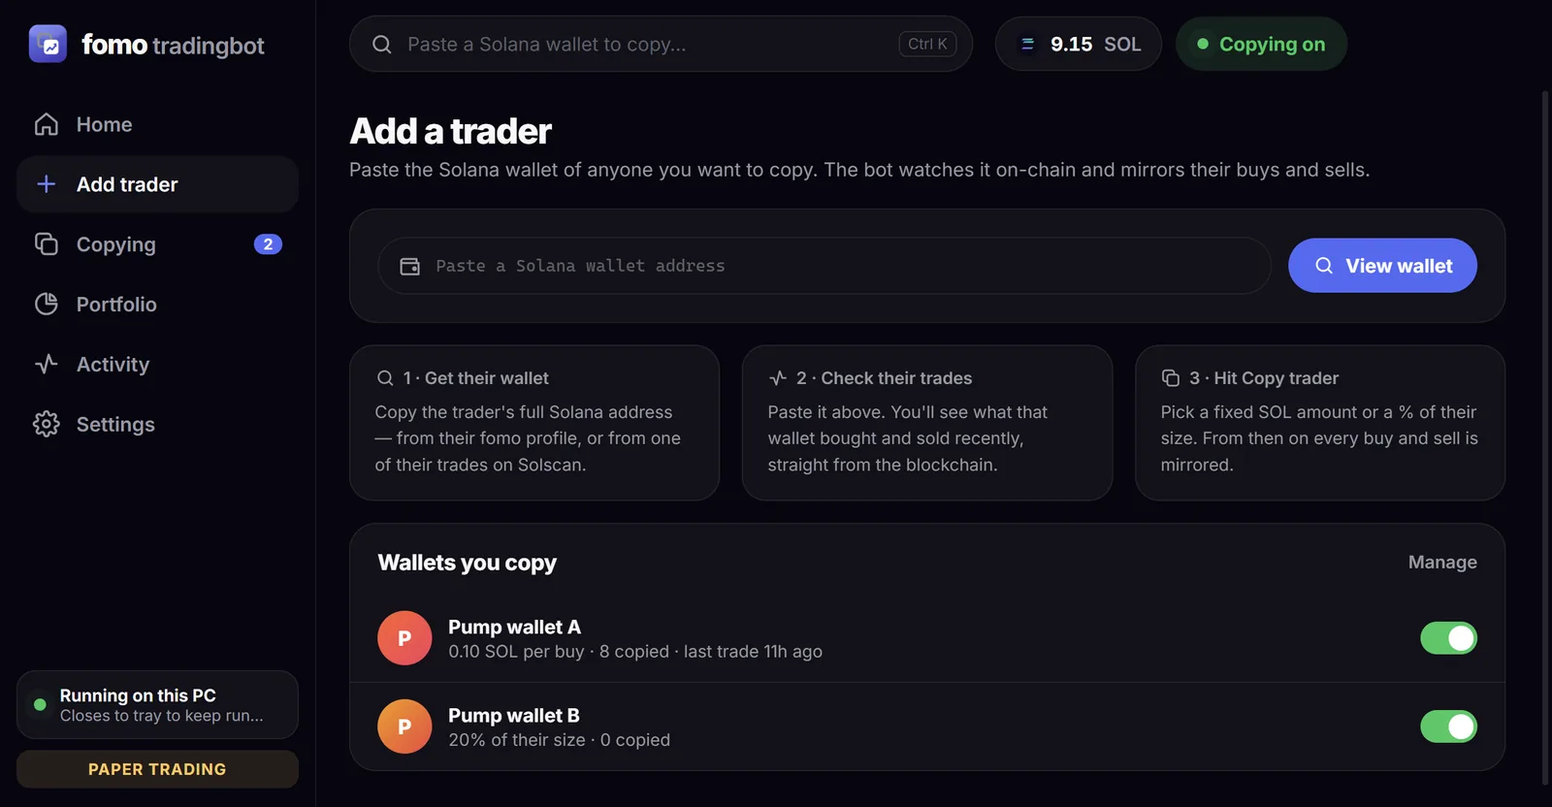
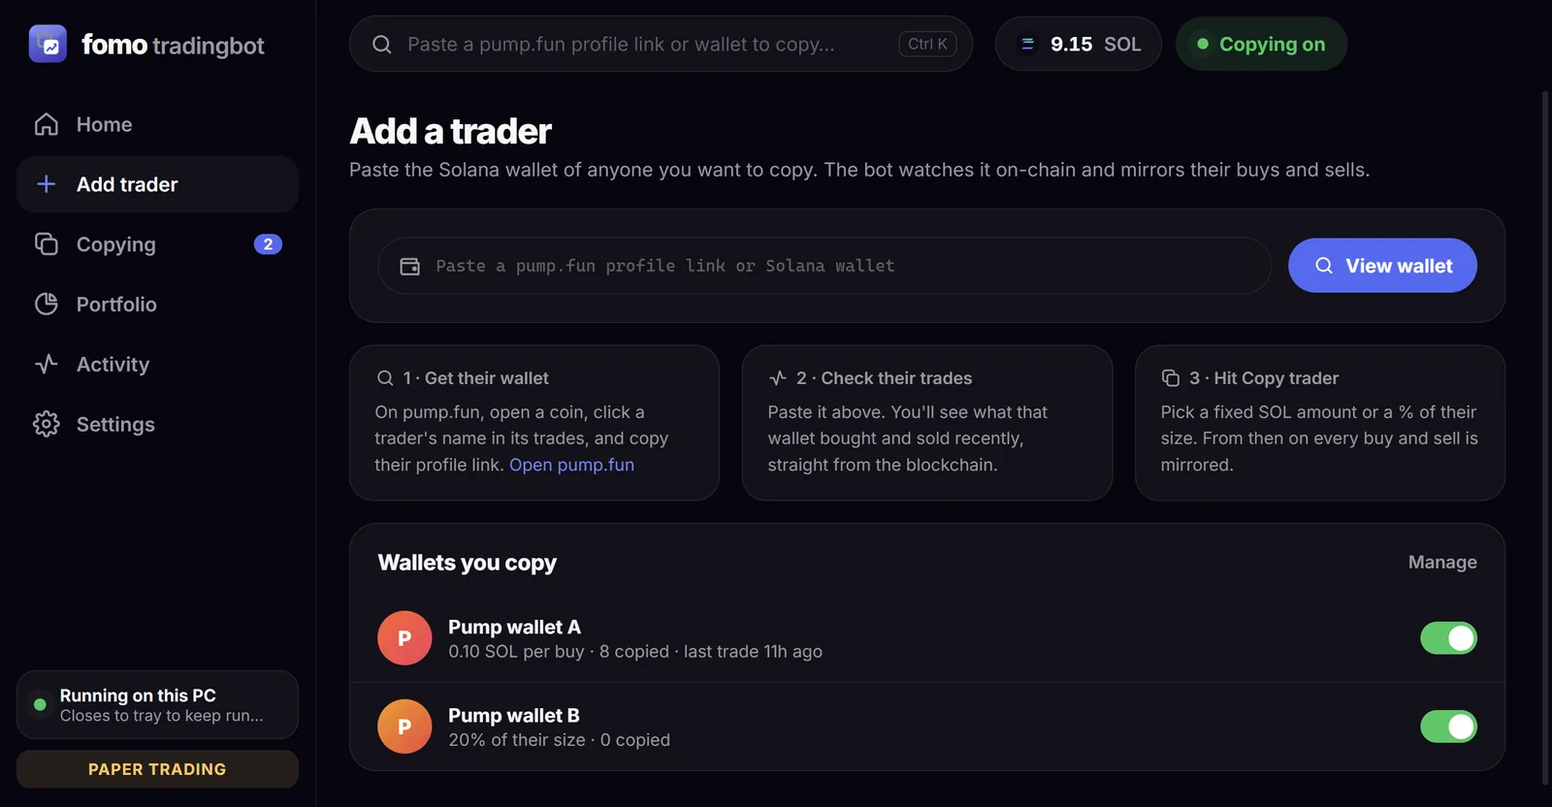
v1.3.0: pump.fun first — paste pump.fun profile links, pump.fun links throughout

Changed region(s): [[0.25, 0.5, 0.4375, 0.5938], [0.3438, 0.3125, 0.5625, 0.3438], [0.3125, 0.0312, 0.5312, 0.0625]]

diff --git a/desktop/renderer/app.js b/desktop/renderer/app.js
@@ -8,6 +8,16 @@ const esc = (v) => String(v ?? '').replace(/[&<>"']/g, (c) => ({ '&': '&amp;', '
 const safeUrl = (u) => (typeof u === 'string' && /^https:\/\//.test(u) ? u : null);
 const short = (a, n = 4) => (a ? `${a.slice(0, n)}…${a.slice(-n)}` : '');
 const isSolAddr = (s) => /^[1-9A-HJ-NP-Za-km-z]{32,44}$/.test(String(s || '').trim());
+// Accepts a plain wallet or a profile/account link (pump.fun, Solscan, GMGN, Birdeye…). Coin links are rejected.
+function parseTraderInput(raw) {
+  const s = String(raw || '').trim();
+  if (isSolAddr(s)) return { address: s };
+  if (/pump\.fun\/(coin|advanced\/coin)\//i.test(s)) return { error: "That's a coin link, not a trader. On the coin page, click a trader's name in the trades list and copy their profile link instead." };
+  const m = s.match(/\/(?:profile|account|address|wallet|portfolio|user)\/([1-9A-HJ-NP-Za-km-z]{32,44})/i) || s.match(/[?&](?:address|wallet)=([1-9A-HJ-NP-Za-km-z]{32,44})/i);
+  if (m) return { address: m[1] };
+  return { error: "Couldn't find a wallet in that. Paste a pump.fun profile link (pump.fun/profile/…) or a Solana wallet address." };
+}
+const tokenUrl = (mint) => (/pump$/.test(mint) ? `https://pump.fun/coin/${mint}` : `https://dexscreener.com/solana/${mint}`);
 const sleep = (ms) => new Promise((r) => setTimeout(r, ms));
 
 function fmtSol(n, d) {
@@ -315,7 +325,7 @@ VIEWS.home = () => {
       <div class="card pad0">
         <div class="card-h" style="padding:18px 20px 0"><h3>Traders you copy</h3><a class="link" data-go="copying">Manage</a></div>
         ${active.length || S.targets.length ? `<div class="list" style="margin-top:6px">${S.targets.slice(0, 6).map(targetRow).join('')}</div>` : `
-          <div class="empty"><div class="ico">${icon('copy')}</div><h4>You're not copying anyone yet</h4><p>Paste a trader's Solana wallet and hit Copy. Every buy and sell they make gets mirrored.</p><button class="btn primary" data-go="discover">${icon('plus')}Add a trader</button></div>`}
+          <div class="empty"><div class="ico">${icon('copy')}</div><h4>You're not copying anyone yet</h4><p>Paste a trader's pump.fun profile link or Solana wallet and hit Copy. Every buy and sell they make gets mirrored.</p><button class="btn primary" data-go="discover">${icon('plus')}Add a trader</button></div>`}
       </div>
       <div class="card pad0">
         <div class="card-h" style="padding:18px 20px 0"><h3>Top positions</h3><a class="link" data-go="portfolio">View all</a></div>
@@ -407,14 +417,14 @@ VIEWS.discover = () => {
     <div class="row">
       <div class="search-wrap grow" style="max-width:none">
         <span class="search-ico">${icon('wallet')}</span>
-        <input id="discQ" class="mono" placeholder="Paste a Solana wallet address" value="${esc(d.q)}" autocomplete="off" spellcheck="false">
+        <input id="discQ" class="mono" placeholder="Paste a pump.fun profile link or Solana wallet" value="${esc(d.q)}" autocomplete="off" spellcheck="false">
       </div>
       <button class="btn primary" id="discGo">${icon('search')}View wallet</button>
     </div>
     ${d.error ? `<div class="note warn" style="margin-top:14px">${icon('warn')}<div>${esc(d.error)}</div></div>` : ''}
   </div>
   <div class="grid g3" style="margin-top:16px">
-    <div class="stat"><div class="k">${icon('search')}1 · Get their wallet</div><div class="small muted" style="margin-top:8px;line-height:1.55">Copy the trader's full Solana address — from their fomo profile, or from one of their trades on Solscan.</div></div>
+    <div class="stat"><div class="k">${icon('search')}1 · Get their wallet</div><div class="small muted" style="margin-top:8px;line-height:1.55">On pump.fun, open a coin, click a trader's name in its trades, and copy their profile link. <a data-open="https://pump.fun">Open pump.fun</a></div></div>
     <div class="stat"><div class="k">${icon('activity')}2 · Check their trades</div><div class="small muted" style="margin-top:8px;line-height:1.55">Paste it above. You'll see what that wallet bought and sold recently, straight from the blockchain.</div></div>
     <div class="stat"><div class="k">${icon('copy')}3 · Hit Copy trader</div><div class="small muted" style="margin-top:8px;line-height:1.55">Pick a fixed SOL amount or a % of their size. From then on every buy and sell is mirrored.</div></div>
   </div>
@@ -425,15 +435,16 @@ function runSearch(q) {
   const d = S.discover;
   d.q = String(q || '').trim();
   if (!d.q) return;
-  if (isSolAddr(d.q)) { d.error = null; go('profile', { ref: 'wallet:' + d.q }); return; }
-  d.error = 'That doesn\'t look like a Solana wallet address. It should be 32–44 letters and numbers, like 7xKX…9fGh.';
+  const r = parseTraderInput(d.q);
+  if (r.address) { d.error = null; go('profile', { ref: 'wallet:' + r.address }); return; }
+  d.error = r.error;
   if (S.route === 'discover') render(); else go('discover');
 }
 
 VIEW_BIND.discover = (root) => {
   const q = $('#discQ', root);
   q.addEventListener('keydown', (e) => { if (e.key === 'Enter') runSearch(q.value); });
-  q.addEventListener('paste', () => setTimeout(() => { if (isSolAddr(q.value)) runSearch(q.value); }, 0));
+  q.addEventListener('paste', () => setTimeout(() => { if (parseTraderInput(q.value).address) runSearch(q.value); }, 0));
   $('#discGo', root).onclick = () => runSearch(q.value);
   bindTargetToggles(root);
 };
@@ -455,6 +466,7 @@ VIEWS.profile = () => {
         ${avatar(u.avatar, u.name, 'lg')}
         <div class="grow"></div>
         <div class="addr-chip">${SOL_ICON.replace('class="sol"', 'style="width:15px;height:15px"')}<span class="mono">${short(u.address, 5)}</span><button data-copytext="${esc(u.address)}" title="Copy address">${icon('clip')}</button><button data-open="https://solscan.io/account/${esc(u.address)}" title="View on Solscan">${icon('ext')}</button></div>
+        <button class="btn ghost" data-open="https://pump.fun/profile/${esc(u.address)}">${icon('ext')}pump.fun profile</button>
         ${copying
           ? `<button class="btn ghost" id="editCopy">${icon('gear')}Copy settings</button><button class="btn ${copying.enabled ? 'green' : 'ghost'}" id="toggleCopy">${copying.enabled ? icon('check') + 'Copying' : icon('play') + 'Resume'}</button>`
           : `<button class="btn primary lg" id="startCopy">${icon('copy')}Copy trader</button>`}
@@ -472,11 +484,15 @@ VIEWS.profile = () => {
 };
 
 function profileTrades(p) {
-  if (!p.swaps) return `<div class="loading"><span class="spinner"></span>Reading recent trades on-chain…</div>`;
+  if (!p.swaps) {
+    const publicRpc = /api\.mainnet-beta\.solana\.com/.test(S.settings?.rpcUrl || 'api.mainnet-beta.solana.com');
+    return `<div class="loading" style="flex-direction:column"><div class="row"><span class="spinner"></span>Reading recent trades on-chain…</div>
+      ${publicRpc ? `<div class="small faint" style="max-width:460px;text-align:center;line-height:1.5">This can take up to a minute on the free Solana connection. A free Helius RPC URL (Settings → Execution) makes it — and copying — much faster.</div>` : ''}</div>`;
+  }
   if (!p.swaps.length) return `<div class="empty"><p>No recent token trades found for this wallet. Double-check the address, or open it on Solscan.</p></div>`;
   return `<table class="t"><thead><tr><th>Token</th><th>Side</th><th class="r">Size</th><th class="r">When</th><th></th></tr></thead><tbody>
   ${p.swaps.slice(0, 60).map((s) => `<tr>
-    <td><div class="row">${tokImg(s.icon, s.symbol, 'sm')}<div><div style="font-weight:700">${esc(s.symbol)}</div><div class="small faint ellipsis" style="max-width:220px">${esc(s.name || '')}</div></div></div></td>
+    <td><div class="row" style="cursor:pointer" data-open="${esc(tokenUrl(s.mint))}" title="Open coin">${tokImg(s.icon, s.symbol, 'sm')}<div><div style="font-weight:700">${esc(s.symbol)}</div><div class="small faint ellipsis" style="max-width:220px">${esc(s.name || '')}</div></div></div></td>
     <td><span class="badge ${s.side}">${s.side.toUpperCase()}</span></td>
     <td class="r num">${s.sol ? fmtSol(s.sol) + ' SOL' : s.usd ? fmtUsd(s.usd) : '—'}<div class="small faint">${s.tokenAmount ? fmtAmt(s.tokenAmount) : ''}</div></td>
     <td class="r muted">${s.ts ? agoText(s.ts) : ''}</td>
@@ -491,7 +507,7 @@ function loadProfile(ref) {
   const data = { user: { name: t?.name || short(address, 5), avatar: t?.avatar, address }, swaps: null };
   profileCache.set(ref, data);
   if (S.route === 'profile' && S.params.ref === ref) render();
-  GET(`/api/wallet-activity/${address}?limit=15`).catch(() => []).then((swaps) => {
+  GET(`/api/wallet-activity/${address}?limit=10`).catch(() => []).then((swaps) => {
     data.swaps = swaps;
     if (S.route === 'profile' && S.params.ref === ref) render();
   });
@@ -517,7 +533,7 @@ function openCopyModal(u, existing) {
   modal(`
     <div class="row">${avatar(u.avatar, u.name, 'sm')}<div><h3>${existing ? 'Copy settings' : 'Copy ' + esc(u.name)}</h3><div class="small muted">${u.handle ? '@' + esc(u.handle) + ' · ' : ''}<span class="mono">${short(u.address, 5)}</span></div></div><button class="icon-btn x" data-close>${icon('x')}</button></div>
     <div class="body">
-      <div class="field"><label>Name (so you recognise them)</label><input class="input" id="cpName" value="${esc(existing ? u.name : '')}" placeholder="e.g. their fomo handle"></div>
+      <div class="field"><label>Name (so you recognise them)</label><input class="input" id="cpName" value="${esc(existing ? u.name : '')}" placeholder="e.g. their pump.fun name"></div>
       <div class="field"><span class="lbl">How much to buy when they buy</span>
         <div class="seg accent" id="szSeg"><button data-sz="fixed" class="${sizing === 'fixed' ? 'on' : ''}">Fixed amount</button><button data-sz="ratio" class="${sizing === 'ratio' ? 'on' : ''}">% of their size</button></div>
       </div>
@@ -579,7 +595,7 @@ VIEWS.copying = () => {
     <button class="btn primary" data-go="discover">${icon('plus')}Add a trader</button>
   </div>
   <div class="card pad0">
-    ${!list.length ? `<div class="empty"><div class="ico">${icon('copy')}</div><h4>No traders yet</h4><p>Paste a trader's Solana wallet to start copying.</p><button class="btn primary" data-go="discover">${icon('plus')}Add a trader</button></div>` : `
+    ${!list.length ? `<div class="empty"><div class="ico">${icon('copy')}</div><h4>No traders yet</h4><p>Paste a trader's pump.fun profile link or Solana wallet to start copying.</p><button class="btn primary" data-go="discover">${icon('plus')}Add a trader</button></div>` : `
     <table class="t"><thead><tr><th>Trader</th><th>Size</th><th>Copies</th><th class="r">Copied</th><th class="r">Skipped</th><th class="r">Last trade</th><th class="r">Status</th><th></th></tr></thead><tbody>
     ${list.map((t) => `<tr>
       <td><div class="row click" style="cursor:pointer" data-profile="${esc('wallet:' + t.address)}">${avatar(t.avatar, t.name, 'sm')}<div><div style="font-weight:700">${esc(t.name)}</div><div class="small muted">${t.handle ? '@' + esc(t.handle) + ' · ' : ''}<span class="mono">${short(t.address)}</span></div></div></div></td>
@@ -626,7 +642,7 @@ VIEWS.portfolio = () => {
     ${!ps.length ? `<div class="empty"><div class="ico">${icon('pie')}</div><h4>No open positions</h4><p>When a trader you copy buys, the position appears here with live P&L.</p></div>` : `
     <table class="t"><thead><tr><th>Token</th><th class="r">Amount</th><th class="r">Value</th><th class="r">Cost</th><th class="r">P&L</th><th>From</th><th class="r">Sell</th></tr></thead><tbody>
     ${ps.map((p) => `<tr>
-      <td><div class="row">${tokImg(p.icon, p.symbol)}<div><div style="font-weight:700">${esc(p.symbol)}</div><div class="small faint ellipsis" style="max-width:180px">${esc(p.name || '')}</div></div><button class="icon-btn" data-open="https://dexscreener.com/solana/${esc(p.mint)}" title="Chart">${icon('ext')}</button></div></td>
+      <td><div class="row">${tokImg(p.icon, p.symbol)}<div><div style="font-weight:700">${esc(p.symbol)}</div><div class="small faint ellipsis" style="max-width:180px">${esc(p.name || '')}</div></div><button class="icon-btn" data-open="${esc(tokenUrl(p.mint))}" title="Chart">${icon('ext')}</button></div></td>
       <td class="r num">${fmtAmt(p.amount)}</td>
       <td class="r num"><b>${fmtSol(p.valueSol)} SOL</b><div class="small faint">${fmtUsd(p.valueUsd)}</div></td>
       <td class="r num muted">${fmtSol(p.costSol)} SOL</td>
@@ -788,7 +804,7 @@ VIEWS.settings = () => {
       <div class="card">
         <div class="card-h">${icon('info')}<h3>App</h3><span class="muted small" style="margin-left:auto">v${esc(S.info.version || '')}</span></div>
         <div class="toggle-row"><div class="grow"><div class="t">Keep running in the tray</div><div class="d">Closing the window keeps the local engine copying</div></div><label class="switch"><input type="checkbox" id="trayToggle" ${S.info.closeToTray ? 'checked' : ''}><span></span></label></div>
-        <div class="small faint" style="margin-top:10px;line-height:1.5">Unofficial tool, not affiliated with Fomo Labs. Copy trading is risky — memecoins can go to zero in minutes. Nothing here is financial advice.</div>
+        <div class="small faint" style="margin-top:10px;line-height:1.5">Unofficial tool, not affiliated with Fomo Labs or pump.fun. Copy trading is risky — memecoins can go to zero in minutes. Nothing here is financial advice.</div>
       </div>
     </div>
   </div>`;

diff --git a/web/index.html b/web/index.html
@@ -3,10 +3,10 @@
 <head>
   <meta charset="utf-8">
   <meta name="viewport" content="width=device-width, initial-scale=1">
-  <title>Fomo Tradingbot — copy trade fomo traders on autopilot</title>
-  <meta name="description" content="Search any trader on fomo and mirror their Solana buys and sells within seconds. Windows desktop app plus a 24/7 server for a spare PC. Paper mode, risk limits, keys stay on your machine.">
+  <title>Fomo Tradingbot — copy trade pump.fun traders on autopilot</title>
+  <meta name="description" content="Paste any pump.fun trader and mirror their Solana buys and sells within seconds. Windows desktop app plus a 24/7 server for a spare PC. Paper mode, risk limits, keys stay on your machine.">
   <meta property="og:title" content="Fomo Tradingbot">
-  <meta property="og:description" content="Copy trade fomo traders on autopilot. Desktop app + 24/7 server.">
+  <meta property="og:description" content="Copy trade pump.fun traders on autopilot. Desktop app + 24/7 server.">
   <meta property="og:image" content="/img/home.webp">
   <meta name="theme-color" content="#060510">
   <link rel="icon" href="/favicon.png">
@@ -35,8 +35,8 @@
       <div class="glow"></div>
       <div class="wrap hero-in">
         <div class="pill"><span class="dot"></span>Windows · Solana · v1.0</div>
-        <h1>Copy the best traders<br>on <span class="grad">fomo</span>. Automatically.</h1>
-        <p class="lead">Paste a trader&#39;s Solana wallet, hit <b>Copy</b>. Every buy and sell they make is mirrored into your wallet within seconds — with your sizing and your limits.</p>
+        <h1>Copy the best traders<br>on <span class="grad">pump.fun</span>. Automatically.</h1>
+        <p class="lead">Paste a trader&#39;s pump.fun profile link, hit <b>Copy</b>. Every buy and sell they make is mirrored into your wallet within seconds — with your sizing and your limits.</p>
         <div class="cta" id="download">
           <a class="btn white lg" href="https://github.com/rimidalvsulrod/fomo-tradingbot/releases/latest/download/FomoTradingbot-Setup.exe">
             <svg viewBox="0 0 24 24"><path fill="currentColor" d="M3 5.5 10.5 4.4v7.1H3zm8.5-1.2L21 3v8.5h-9.5zM3 12.5h7.5v7.1L3 18.5zm8.5 0H21V21l-9.5-1.3z"/></svg>
@@ -63,7 +63,7 @@
     <section id="features" class="wrap sec">
       <div class="sec-h"><span class="eyebrow">Features</span><h2>Everything you need to follow the legends</h2></div>
       <div class="grid3">
-        <article class="feat"><div class="ic">👛</div><h3>Copy any wallet</h3><p>Paste the Solana address of a trader you like — from fomo or anywhere else. See their recent trades first, then copy. No accounts or logins needed.</p></article>
+        <article class="feat"><div class="ic">👛</div><h3>Copy any pump.fun trader</h3><p>Paste their pump.fun profile link (or any Solana wallet, Solscan or GMGN link). See their recent trades first, then copy. No accounts or logins needed.</p></article>
         <article class="feat"><div class="ic">⚡</div><h3>Mirror buys &amp; sells</h3><p>The engine watches each trader's Solana wallet live. When they buy, you buy. When they sell 40% of a bag, you sell 40% of yours.</p></article>
         <article class="feat"><div class="ic">🧪</div><h3>Paper mode first</h3><p>Every new install simulates trades with real Jupiter quotes. Watch a trader's real performance before you put a single SOL on the line.</p></article>
         <article class="feat"><div class="ic">🛡</div><h3>Risk limits</h3><p>Fixed SOL or % of their size, max per trade, daily spend cap, SOL reserve, max positions, auto take-profit and stop-loss.</p></article>
@@ -75,7 +75,7 @@
     <section id="how" class="wrap sec">
       <div class="sec-h"><span class="eyebrow">How it works</span><h2>Three steps to autopilot</h2></div>
       <div class="steps">
-        <div class="step"><span class="n">1</span><h3>Paste their wallet</h3><p>Grab a trader&#39;s Solana address and paste it in. You&#39;ll see what they bought and sold recently.</p><img src="/img/discover.webp" alt="Add a trader screen" loading="lazy"></div>
+        <div class="step"><span class="n">1</span><h3>Paste their profile</h3><p>On pump.fun, click a trader in any coin&#39;s trades and copy their profile link. Paste it in to see what they bought and sold recently.</p><img src="/img/discover.webp" alt="Add a trader screen" loading="lazy"></div>
         <div class="step"><span class="n">2</span><h3>Hit Copy</h3><p>Choose a fixed SOL amount or a % of their size, and whether to copy buys, sells or both.</p><img src="/img/copying.webp" alt="Copying screen with trader settings" loading="lazy"></div>
         <div class="step"><span class="n">3</span><h3>Watch it trade</h3><p>Positions, live P&amp;L, and a full log of every signal — copied, skipped, or failed and why.</p><img src="/img/portfolio.webp" alt="Portfolio with live P&L" loading="lazy"></div>
       </div>
@@ -126,9 +126,9 @@
     <section id="faq" class="wrap sec">
       <div class="sec-h"><span class="eyebrow">FAQ</span><h2>Questions</h2></div>
       <div class="faq">
-        <details><summary>Is this the official fomo app?</summary><p>No. Fomo Tradingbot is an independent, unofficial tool and is not affiliated with or endorsed by Fomo Labs. It doesn't log in to fomo or use fomo's systems — it copies Solana wallets you choose.</p></details>
-        <details><summary>Do I need a fomo account?</summary><p>No. You copy traders by their Solana wallet address, and the bot watches that wallet directly on the blockchain. No fomo login is involved.</p></details>
-        <details><summary>Which chains are copied?</summary><p>Solana. That's where most fomo trading happens. Profiles show holdings on other chains too, but only Solana trades are mirrored.</p></details>
+        <details><summary>Is this the official fomo app?</summary><p>No. Fomo Tradingbot is an independent, unofficial tool and is not affiliated with or endorsed by Fomo Labs or pump.fun. It doesn't log in to fomo or use fomo's systems — it copies Solana wallets you choose.</p></details>
+        <details><summary>How do I find a trader to copy?</summary><p>On pump.fun, open any coin and click a name in its trades list — their profile link (pump.fun/profile/…) contains their wallet. Paste that link into the app. You don&#39;t need a pump.fun account.</p></details>
+        <details><summary>Which coins can it copy?</summary><p>Anything on Solana — including brand-new pump.fun coins still on the bonding curve and coins that have graduated. Buys and sells go through Jupiter at the best available price.</p></details>
         <details><summary>Where does my private key go?</summary><p>Nowhere. Import a dedicated trading wallet in Settings; the key is encrypted with a key unique to the machine running the bot. When you pair with a server, the key travels across your LAN encrypted with that pairing's secret.</p></details>
         <details><summary>Windows says "Windows protected your PC".</summary><p>The .exe isn't code-signed yet, so SmartScreen warns on first launch. Click <b>More info → Run anyway</b>. The app is open source under the MIT license.</p></details>
         <details><summary>How fast are copies?</summary><p>Usually 2–5 seconds after the trader's transaction confirms. For best results add a free RPC URL (Helius, QuickNode) and a free Jupiter API key in Settings → Execution.</p></details>
@@ -147,7 +147,7 @@
 
   <footer class="wrap foot">
     <div class="logo small"><img src="/img/icon.png" alt=""><span><b>fomo</b> tradingbot</span></div>
-    <p>Unofficial tool. Not affiliated with Fomo Labs. Copy trading memecoins is extremely risky — you can lose everything you put in. Nothing here is financial advice. MIT license.</p>
+    <p>Unofficial tool. Not affiliated with Fomo Labs or pump.fun. Copy trading memecoins is extremely risky — you can lose everything you put in. Nothing here is financial advice. MIT license.</p>
   </footer>
 </body>
 </html>

diff --git a/engine/engine.js b/engine/engine.js
@@ -9,7 +9,7 @@ const secure = require('./secure');
 const { Jupiter, SOL_MINT, sleep } = require('./jupiter');
 const { keypairFromSecret, tokenBalanceRaw, parseSwap, getParsedTx } = require('./solana');
 
-const VERSION = '1.2.0';
+const VERSION = '1.3.0';
 
 const DEFAULT_SETTINGS = {
   mode: 'paper', // 'paper' simulates fills with live quotes; 'live' signs real transactions
@@ -623,8 +623,10 @@ class Engine extends EventEmitter {
     const pk = new PublicKey(address);
     const sigs = (await this.connection.getSignaturesForAddress(pk, { limit: Math.min(30, limit * 2) })).filter((x) => !x.err);
     const out = [];
-    for (let i = 0; i < sigs.length && out.length < limit; i += 6) {
-      const batch = sigs.slice(i, i + 6);
+    // Small batches: bigger bursts trip the free RPC's rate limit and end up slower after backoff.
+    for (let i = 0; i < sigs.length && out.length < limit; i += 2) {
+      const batch = sigs.slice(i, i + 2);
+      if (i) await sleep(250);
       const txs = await Promise.all(batch.map((s) => getParsedTx(this.connection, s.signature).catch(() => null)));
       for (let j = 0; j < batch.length; j++) {
         const swap = parseSwap(txs[j], address, batch[j].signature);

diff --git a/desktop/renderer/index.html b/desktop/renderer/index.html
@@ -23,7 +23,7 @@
       <header class="topbar drag">
         <div class="search-wrap no-drag">
           <span class="search-ico"></span>
-          <input id="globalSearch" placeholder="Paste a Solana wallet to copy…" autocomplete="off" spellcheck="false">
+          <input id="globalSearch" placeholder="Paste a pump.fun profile link or wallet to copy…" autocomplete="off" spellcheck="false">
           <kbd>Ctrl K</kbd>
         </div>
         <div class="top-right no-drag">

diff --git a/README.md b/README.md
@@ -1,8 +1,8 @@
 # fomo tradingbot
 
-Copy-trade traders from the [fomo](https://fomo.family) app (or anyone else) on Solana. Paste a trader's Solana wallet, hit **Copy**, and every buy and sell they make is mirrored into your wallet within seconds.
+Copy-trade [pump.fun](https://pump.fun) traders (or any Solana wallet). Paste a trader's pump.fun profile link, hit **Copy**, and every buy and sell they make is mirrored into your wallet within seconds.
 
-> Unofficial tool — not affiliated with Fomo Labs. Copy trading memecoins is extremely risky. Not financial advice.
+> Unofficial tool — not affiliated with Fomo Labs or pump.fun. Copy trading memecoins is extremely risky. Not financial advice.
 
 **Website:** https://fomo-tradingbot.vercel.app
 
@@ -14,7 +14,7 @@ Copy-trade traders from the [fomo](https://fomo.family) app (or anyone else) on 
 ## Quick start
 
 1. Run **FomoTradingbot-Setup.exe** (SmartScreen: *More info → Run anyway*; it isn't code-signed). It installs in one click and updates itself from then on.
-2. **Add trader** → paste the trader's Solana wallet address. You'll see their recent on-chain trades.
+2. **Add trader** → paste a trader's pump.fun profile link (on pump.fun, click a name in any coin's trades). Solana wallets and Solscan/GMGN/Birdeye links work too. You'll see their recent on-chain trades.
 3. **Copy trader** → give them a name and choose a fixed SOL size or a % of their size.
 4. You start in **paper mode**: fills are simulated with live Jupiter quotes. When you're happy, go to **Settings → Trading wallet**, import or create a dedicated wallet, fund it, and switch to **Live**.
 
@@ -31,7 +31,7 @@ Both PCs must be on the same network for discovery and pairing. Server keys: `S`
 - **Signals:** the engine watches each copied wallet on-chain (RPC polling + websocket log triggers) and parses each transaction's balance changes into buy/sell legs — DEX-agnostic, works for pump.fun, Raydium, Meteora, Jupiter routes, etc.
 - **Execution:** swaps go through Jupiter Ultra (fallback: Jupiter Swap API + your RPC). Sells mirror the trader's sold fraction of their bag.
 - **Risk:** per-trader sizing, max per trade, daily SOL limit, reserve, max positions, buy-once-per-token, take-profit/stop-loss, stale-signal and dust filters.
-- **No fomo login:** traders are added by wallet address. Wallet pages show recent trades read straight from the blockchain.
+- **No logins:** traders are added by pump.fun profile link or wallet address. Wallet pages show recent trades read straight from the blockchain.
 - **Keys:** the wallet key is AES-256-GCM encrypted at rest with a machine-local key. Wallet imports to a remote server are encrypted with a key derived from the pairing token.
 
 Tip: the public Solana RPC is rate-limited. A free Helius/QuickNode RPC URL and a free Jupiter API key (Settings → Execution) make copying faster and more reliable.
